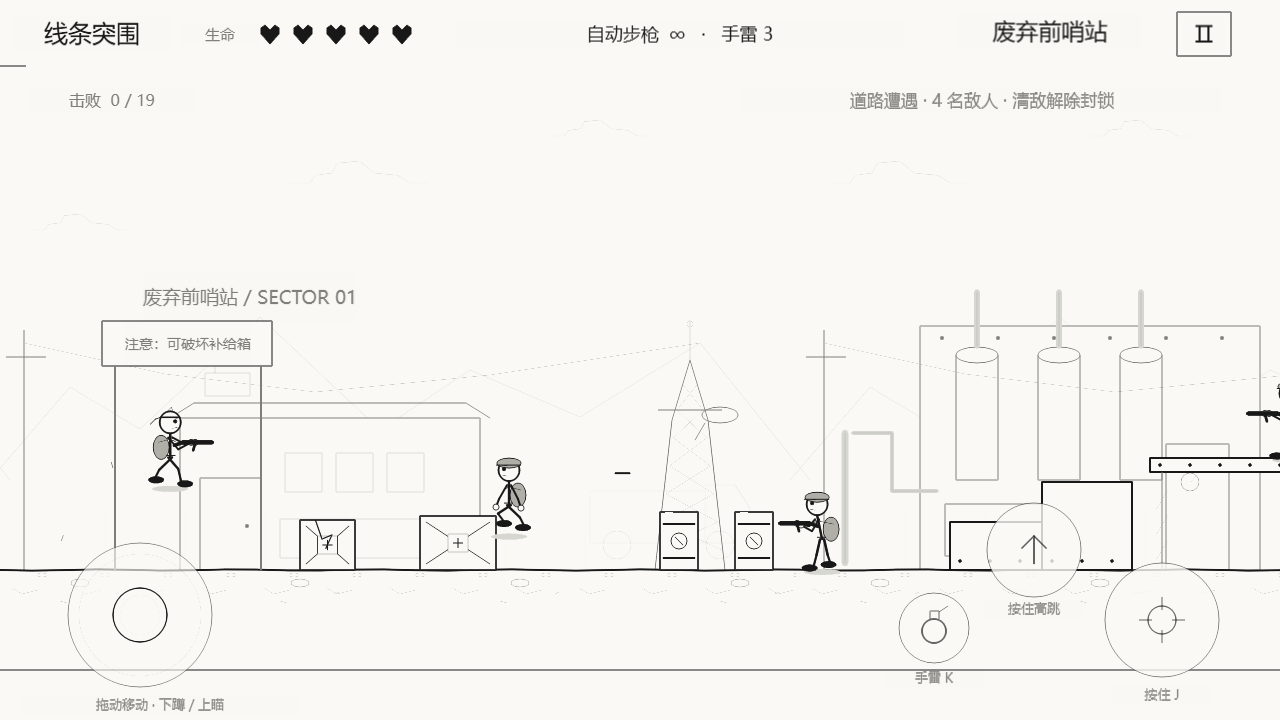
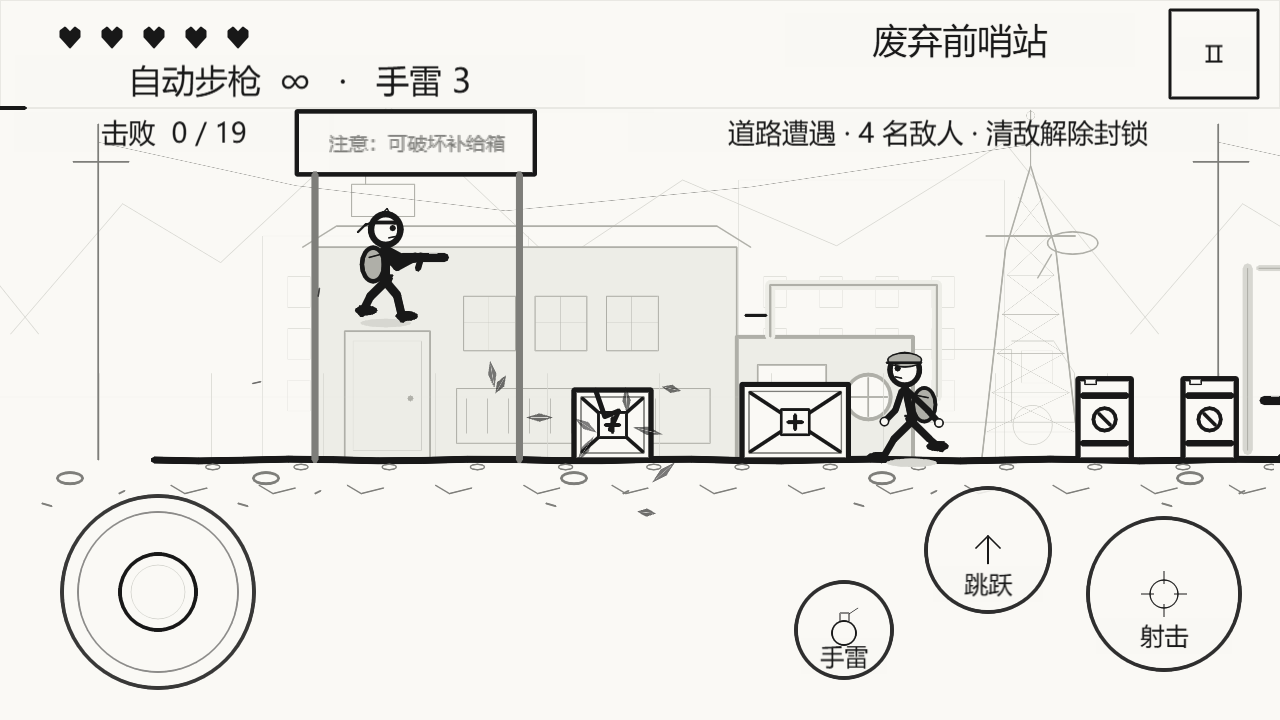
Record V0.2.1 live Pages validation

diff --git a/DEVELOPMENT.md b/DEVELOPMENT.md
@@ -79,6 +79,8 @@
 
 V0.2.1 最终本机验证：46/46 逻辑、15/15 浏览器、严格类型检查通过，Web 与微信均由 Creator 3.8.8 成功构建。真实键盘全局通关 68.25 游戏秒，剩余 4 HP、23 次击杀，战车 0 HP，子弹峰值 11、溢出 0，无应用运行错误。Web 35 文件 / 4,589,759 字节，微信 40 文件 / 1,943,377 字节（微信运行未验证）。最新三秒 Chromium 抽样 46.61 FPS，超过 50ms 的帧为 0，真实手机 60FPS 尚未验收。
 
+V0.2.1 GitHub Pages 线上验证通过：版本 0.2.1，35 个 Cocos 文件逐字节与发布包一致；桌面键盘/暂停恢复、844×390 三指触控/释放、横屏画布覆盖、竖屏冻结/旋转恢复均通过，应用错误和请求失败为 0。在线结果与截图保存在 `reports/github-pages-verification.json`、`github-pages-desktop.png`、`github-pages-mobile.png`、`github-pages-portrait.png`。
+
 667×375 实测画布 667×375、DPR 2；射击/跳跃/手雷/暂停触区约 93.75/79.17/62.50/45.83 CSS 像素。740×360 的 DPR 3 及 1024×768 平板也检查实际像素密度与三指触控。BOSS 镜头拉远时地面稳定在逻辑 y=260，使战车和人物主要轮廓位于按钮上方；已去掉地面下方的装饰横线。
 
 V0.2 历史验收：严格 TypeScript 检查通过；42/42 逻辑测试、9/9 浏览器测试通过。实际键盘通关约 64.49 游戏秒，剩余 5 HP，战车 0 HP，三种武器及战车两个阶段均经过，吊桥已降下、升降区已通过；子弹峰值 10、溢出 0。Web 35 文件 / 4,566,144 字节；微信 40 文件 / 1,932,997 字节，横屏，构建成功。35 个线上 Cocos 文件逐字节一致，公开站点的键盘、暂停和三指输入验证通过，应用错误与请求失败均为 0。
